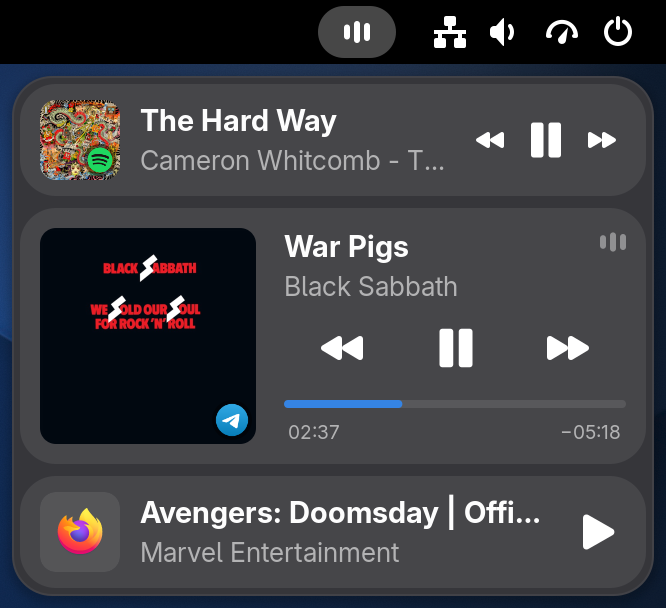
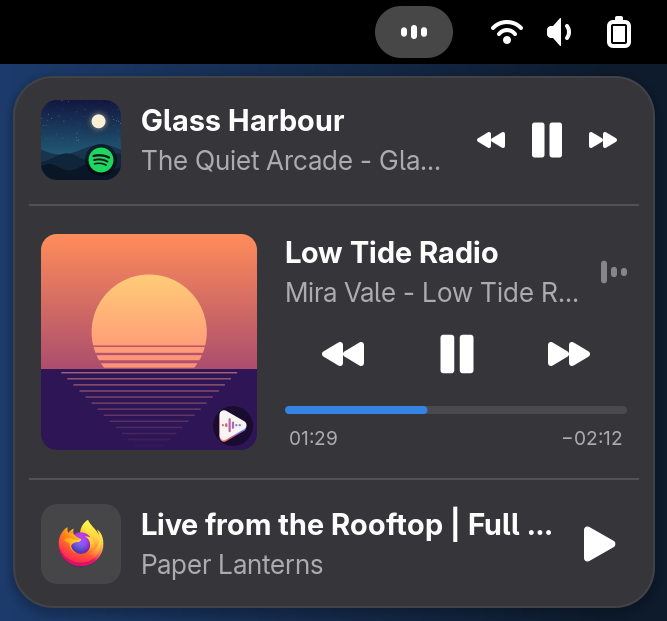
Put several players in the popup on one surface

diff --git a/extension.js b/extension.js
@@ -2597,7 +2597,8 @@ function formatTime(microseconds) {
 
 const CardStack = GObject.registerClass(
 class CardStack extends St.BoxLayout {
-    _init(closeMenu, keepVisible) {
+    // Divided: one background for all the cards, with lines between them.
+    _init(closeMenu, keepVisible, divided) {
         super._init({
             style_class: 'np-stack',
             ...VERTICAL,
@@ -2606,7 +2607,9 @@ class CardStack extends St.BoxLayout {
 
         this._closeMenu = closeMenu;
         this._keepVisible = keepVisible;
+        this._divided = divided;
         this._cards = new Map();
+        this._separators = new Map();
         this._layout = 'auto';
         this._options = CARD_OPTIONS;
         this._manualCard = null;
@@ -2629,6 +2632,11 @@ class CardStack extends St.BoxLayout {
         const card = new MediaCard(player, this._closeMenu, this._options);
         card.connect('expand-request', () => this._onExpandRequest(card));
         this._cards.set(player, card);
+        if (this._divided) {
+            const separator = new St.Widget({style_class: 'np-separator'});
+            this._separators.set(card, separator);
+            this.add_child(separator);
+        }
         this.add_child(card);
         this._syncVisibility();
         this._syncLayout();
@@ -2636,9 +2644,12 @@ class CardStack extends St.BoxLayout {
     }
 
     removePlayer(player) {
-        if (this._manualCard === this._cards.get(player))
+        const card = this._cards.get(player);
+        if (this._manualCard === card)
             this._manualCard = null;
-        this._cards.get(player)?.destroy();
+        this._separators.get(card)?.destroy();
+        this._separators.delete(card);
+        card?.destroy();
         this._cards.delete(player);
         this._syncVisibility();
         this._syncLayout();
@@ -2711,10 +2722,21 @@ class CardStack extends St.BoxLayout {
         const wanted = this._options.sortPlayingFirst ? this._ranked() : cards;
 
         // The placeholder is the first child and stays there.
-        wanted.forEach((card, index) => {
+        let index = 1;
+        let above = false;
+        wanted.forEach(card => {
             card.visible = shown.has(card);
-            if (this.get_child_at_index(index + 1) !== card)
-                this.set_child_at_index(card, index + 1);
+            const separator = this._separators.get(card);
+            if (separator) {
+                separator.visible = card.visible && above;
+                if (this.get_child_at_index(index) !== separator)
+                    this.set_child_at_index(separator, index);
+                index++;
+            }
+            above ||= card.visible;
+            if (this.get_child_at_index(index) !== card)
+                this.set_child_at_index(card, index);
+            index++;
         });
     }
 
@@ -2732,11 +2754,6 @@ class CardStack extends St.BoxLayout {
         // rest as one-line rows. A fixed size from the preferences is a fixed
         // size, and nothing expands.
         const accordion = this._layout === 'auto' && cards.length > 1;
-        // A lone card shares the popup's background, several keep their tiles.
-        if (cards.length > 1)
-            this.remove_style_class_name('np-stack-single');
-        else
-            this.add_style_class_name('np-stack-single');
         this._expandedCard = accordion ? this._expandedCandidate(cards) : null;
 
         cards.forEach(card => {
@@ -3350,14 +3367,14 @@ class MprisSource extends Signals.EventEmitter {
 // Owns the MPRIS source and the two actors a host displays: the panel
 // equalizer and the card stack. The host decides where they go.
 class MediaModel {
-    constructor(settings, {keepStackVisible, closeMenu}) {
+    constructor(settings, {keepStackVisible, divided, closeMenu}) {
         this._settings = settings;
         this._players = new Set();
         this._shown = new Set();
 
         this._analyzer = new SpectrumAnalyzer();
         this.equalizer = new EqualizerIcon();
-        this.stack = new CardStack(closeMenu, keepStackVisible);
+        this.stack = new CardStack(closeMenu, keepStackVisible, divided);
 
         this._source = new MprisSource();
         this._source.connectObject(
@@ -3536,6 +3553,7 @@ class NowPlayingButton extends PanelMenu.Button {
 
         this._model = new MediaModel(settings, {
             keepStackVisible: true,
+            divided: true,
             closeMenu: () => this.menu.close(),
         });
         this._model.notifyVisibility = () => this._syncVisibility();

diff --git a/stylesheet-dark.css b/stylesheet-dark.css
@@ -167,9 +167,28 @@
     min-width: 20em;
 }
 
-/* One surface: a lone card uses the menu as its background. */
-.np-menu .np-stack-single .np-card {
+/* One surface, as on macOS. Only a folded row lights up under the pointer. */
+.np-menu .np-stack {
+    spacing: 4px;
+}
+
+.np-menu .np-stack .np-card,
+.np-menu .np-stack .np-card.np-card-expandable:hover {
     background-color: transparent;
+}
+
+.np-menu .np-stack .np-card.np-card-expandable:focus {
+    background-color: rgba(255, 255, 255, 0.14); /* np-var: hover */
+}
+
+.np-menu .np-stack .np-card.np-card-compact.np-card-expandable:hover {
+    background-color: rgba(255, 255, 255, 0.14); /* np-var: hover */
+}
+
+.np-separator {
+    height: 1px;
+    margin: 0 4px;
+    background-color: rgba(255, 255, 255, 0.14); /* np-var: hover */
 }
 
 .np-stack .np-card-expandable:hover, .np-stack .np-card-expandable:focus {
@@ -295,6 +314,9 @@
 .np-dark .np-control:focus { background-color: rgba(255, 255, 255, 0.14); }
 .np-dark .np-control:insensitive { color: rgba(255, 255, 255, 0.4); }
 .np-dark .np-card-expandable:hover, .np-dark .np-card-expandable:focus { background-color: rgba(255, 255, 255, 0.14); }
+.np-dark .np-menu .np-stack .np-card.np-card-expandable:focus { background-color: rgba(255, 255, 255, 0.14); }
+.np-dark .np-menu .np-stack .np-card.np-card-compact.np-card-expandable:hover { background-color: rgba(255, 255, 255, 0.14); }
+.np-dark .np-separator { background-color: rgba(255, 255, 255, 0.14); }
 .np-dark .np-stack .np-card-expandable:hover, .np-dark .np-stack .np-card-expandable:focus { background-color: rgba(255, 255, 255, 0.14); }
 .np-dark .np-placeholder { color: rgba(255, 255, 255, 0.6); }
 .np-dark .np-cover-button:hover .np-cover, .np-dark .np-cover-button:focus .np-cover { box-shadow: inset 0 0 0 2px rgba(255, 255, 255, 0.45); }
@@ -309,6 +331,9 @@
 .np-light .np-control:focus { background-color: rgba(0, 0, 0, 0.10); }
 .np-light .np-control:insensitive { color: rgba(0, 0, 0, 0.35); }
 .np-light .np-card-expandable:hover, .np-light .np-card-expandable:focus { background-color: rgba(0, 0, 0, 0.10); }
+.np-light .np-menu .np-stack .np-card.np-card-expandable:focus { background-color: rgba(0, 0, 0, 0.10); }
+.np-light .np-menu .np-stack .np-card.np-card-compact.np-card-expandable:hover { background-color: rgba(0, 0, 0, 0.10); }
+.np-light .np-separator { background-color: rgba(0, 0, 0, 0.10); }
 .np-light .np-stack .np-card-expandable:hover, .np-light .np-stack .np-card-expandable:focus { background-color: rgba(0, 0, 0, 0.10); }
 .np-light .np-placeholder { color: rgba(0, 0, 0, 0.55); }
 .np-light .np-cover-button:hover .np-cover, .np-light .np-cover-button:focus .np-cover { box-shadow: inset 0 0 0 2px rgba(0, 0, 0, 0.35); }

diff --git a/stylesheet-light.css b/stylesheet-light.css
@@ -167,9 +167,28 @@
     min-width: 20em;
 }
 
-/* One surface: a lone card uses the menu as its background. */
-.np-menu .np-stack-single .np-card {
+/* One surface, as on macOS. Only a folded row lights up under the pointer. */
+.np-menu .np-stack {
+    spacing: 4px;
+}
+
+.np-menu .np-stack .np-card,
+.np-menu .np-stack .np-card.np-card-expandable:hover {
     background-color: transparent;
+}
+
+.np-menu .np-stack .np-card.np-card-expandable:focus {
+    background-color: rgba(0, 0, 0, 0.10); /* np-var: hover */
+}
+
+.np-menu .np-stack .np-card.np-card-compact.np-card-expandable:hover {
+    background-color: rgba(0, 0, 0, 0.10); /* np-var: hover */
+}
+
+.np-separator {
+    height: 1px;
+    margin: 0 4px;
+    background-color: rgba(0, 0, 0, 0.10); /* np-var: hover */
 }
 
 .np-stack .np-card-expandable:hover, .np-stack .np-card-expandable:focus {
@@ -295,6 +314,9 @@
 .np-dark .np-control:focus { background-color: rgba(255, 255, 255, 0.14); }
 .np-dark .np-control:insensitive { color: rgba(255, 255, 255, 0.4); }
 .np-dark .np-card-expandable:hover, .np-dark .np-card-expandable:focus { background-color: rgba(255, 255, 255, 0.14); }
+.np-dark .np-menu .np-stack .np-card.np-card-expandable:focus { background-color: rgba(255, 255, 255, 0.14); }
+.np-dark .np-menu .np-stack .np-card.np-card-compact.np-card-expandable:hover { background-color: rgba(255, 255, 255, 0.14); }
+.np-dark .np-separator { background-color: rgba(255, 255, 255, 0.14); }
 .np-dark .np-stack .np-card-expandable:hover, .np-dark .np-stack .np-card-expandable:focus { background-color: rgba(255, 255, 255, 0.14); }
 .np-dark .np-placeholder { color: rgba(255, 255, 255, 0.6); }
 .np-dark .np-cover-button:hover .np-cover, .np-dark .np-cover-button:focus .np-cover { box-shadow: inset 0 0 0 2px rgba(255, 255, 255, 0.45); }
@@ -309,6 +331,9 @@
 .np-light .np-control:focus { background-color: rgba(0, 0, 0, 0.10); }
 .np-light .np-control:insensitive { color: rgba(0, 0, 0, 0.35); }
 .np-light .np-card-expandable:hover, .np-light .np-card-expandable:focus { background-color: rgba(0, 0, 0, 0.10); }
+.np-light .np-menu .np-stack .np-card.np-card-expandable:focus { background-color: rgba(0, 0, 0, 0.10); }
+.np-light .np-menu .np-stack .np-card.np-card-compact.np-card-expandable:hover { background-color: rgba(0, 0, 0, 0.10); }
+.np-light .np-separator { background-color: rgba(0, 0, 0, 0.10); }
 .np-light .np-stack .np-card-expandable:hover, .np-light .np-stack .np-card-expandable:focus { background-color: rgba(0, 0, 0, 0.10); }
 .np-light .np-placeholder { color: rgba(0, 0, 0, 0.55); }
 .np-light .np-cover-button:hover .np-cover, .np-light .np-cover-button:focus .np-cover { box-shadow: inset 0 0 0 2px rgba(0, 0, 0, 0.35); }

diff --git a/stylesheet.css b/stylesheet.css
@@ -164,9 +164,28 @@
     min-width: 20em;
 }
 
-/* One surface: a lone card uses the menu as its background. */
-.np-menu .np-stack-single .np-card {
+/* One surface, as on macOS. Only a folded row lights up under the pointer. */
+.np-menu .np-stack {
+    spacing: 4px;
+}
+
+.np-menu .np-stack .np-card,
+.np-menu .np-stack .np-card.np-card-expandable:hover {
     background-color: transparent;
+}
+
+.np-menu .np-stack .np-card.np-card-expandable:focus {
+    background-color: rgba(127, 127, 127, 0.2); /* np-var: hover */
+}
+
+.np-menu .np-stack .np-card.np-card-compact.np-card-expandable:hover {
+    background-color: rgba(127, 127, 127, 0.2); /* np-var: hover */
+}
+
+.np-separator {
+    height: 1px;
+    margin: 0 4px;
+    background-color: rgba(127, 127, 127, 0.2); /* np-var: hover */
 }
 
 .np-stack .np-card-expandable:hover, .np-stack .np-card-expandable:focus {
